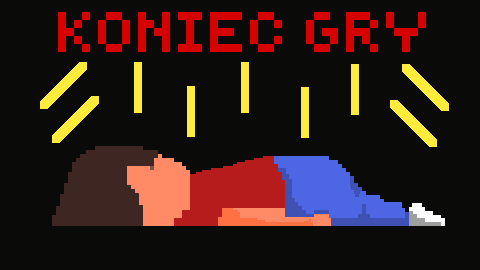
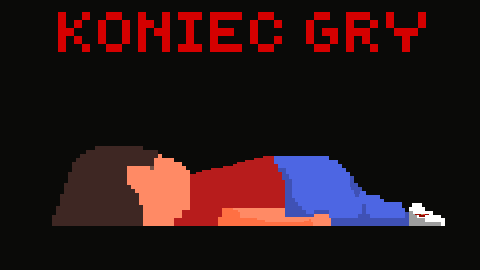
Poprawa ekranu końca

diff --git a/main.py b/main.py
@@ -333,7 +333,7 @@ class Animation:
 cloud = Animation("cloud", 6, 2.5)
 sun = Animation("Sun", 2, 3)
 smoke = Animation("Smoke", 4, 2)
-gameover_background = Animation("gameover_background", 2, 2)
+gameover_background = Animation("gameover_background", 23, 2)
 
 class Objective:
     def __init__(self):
